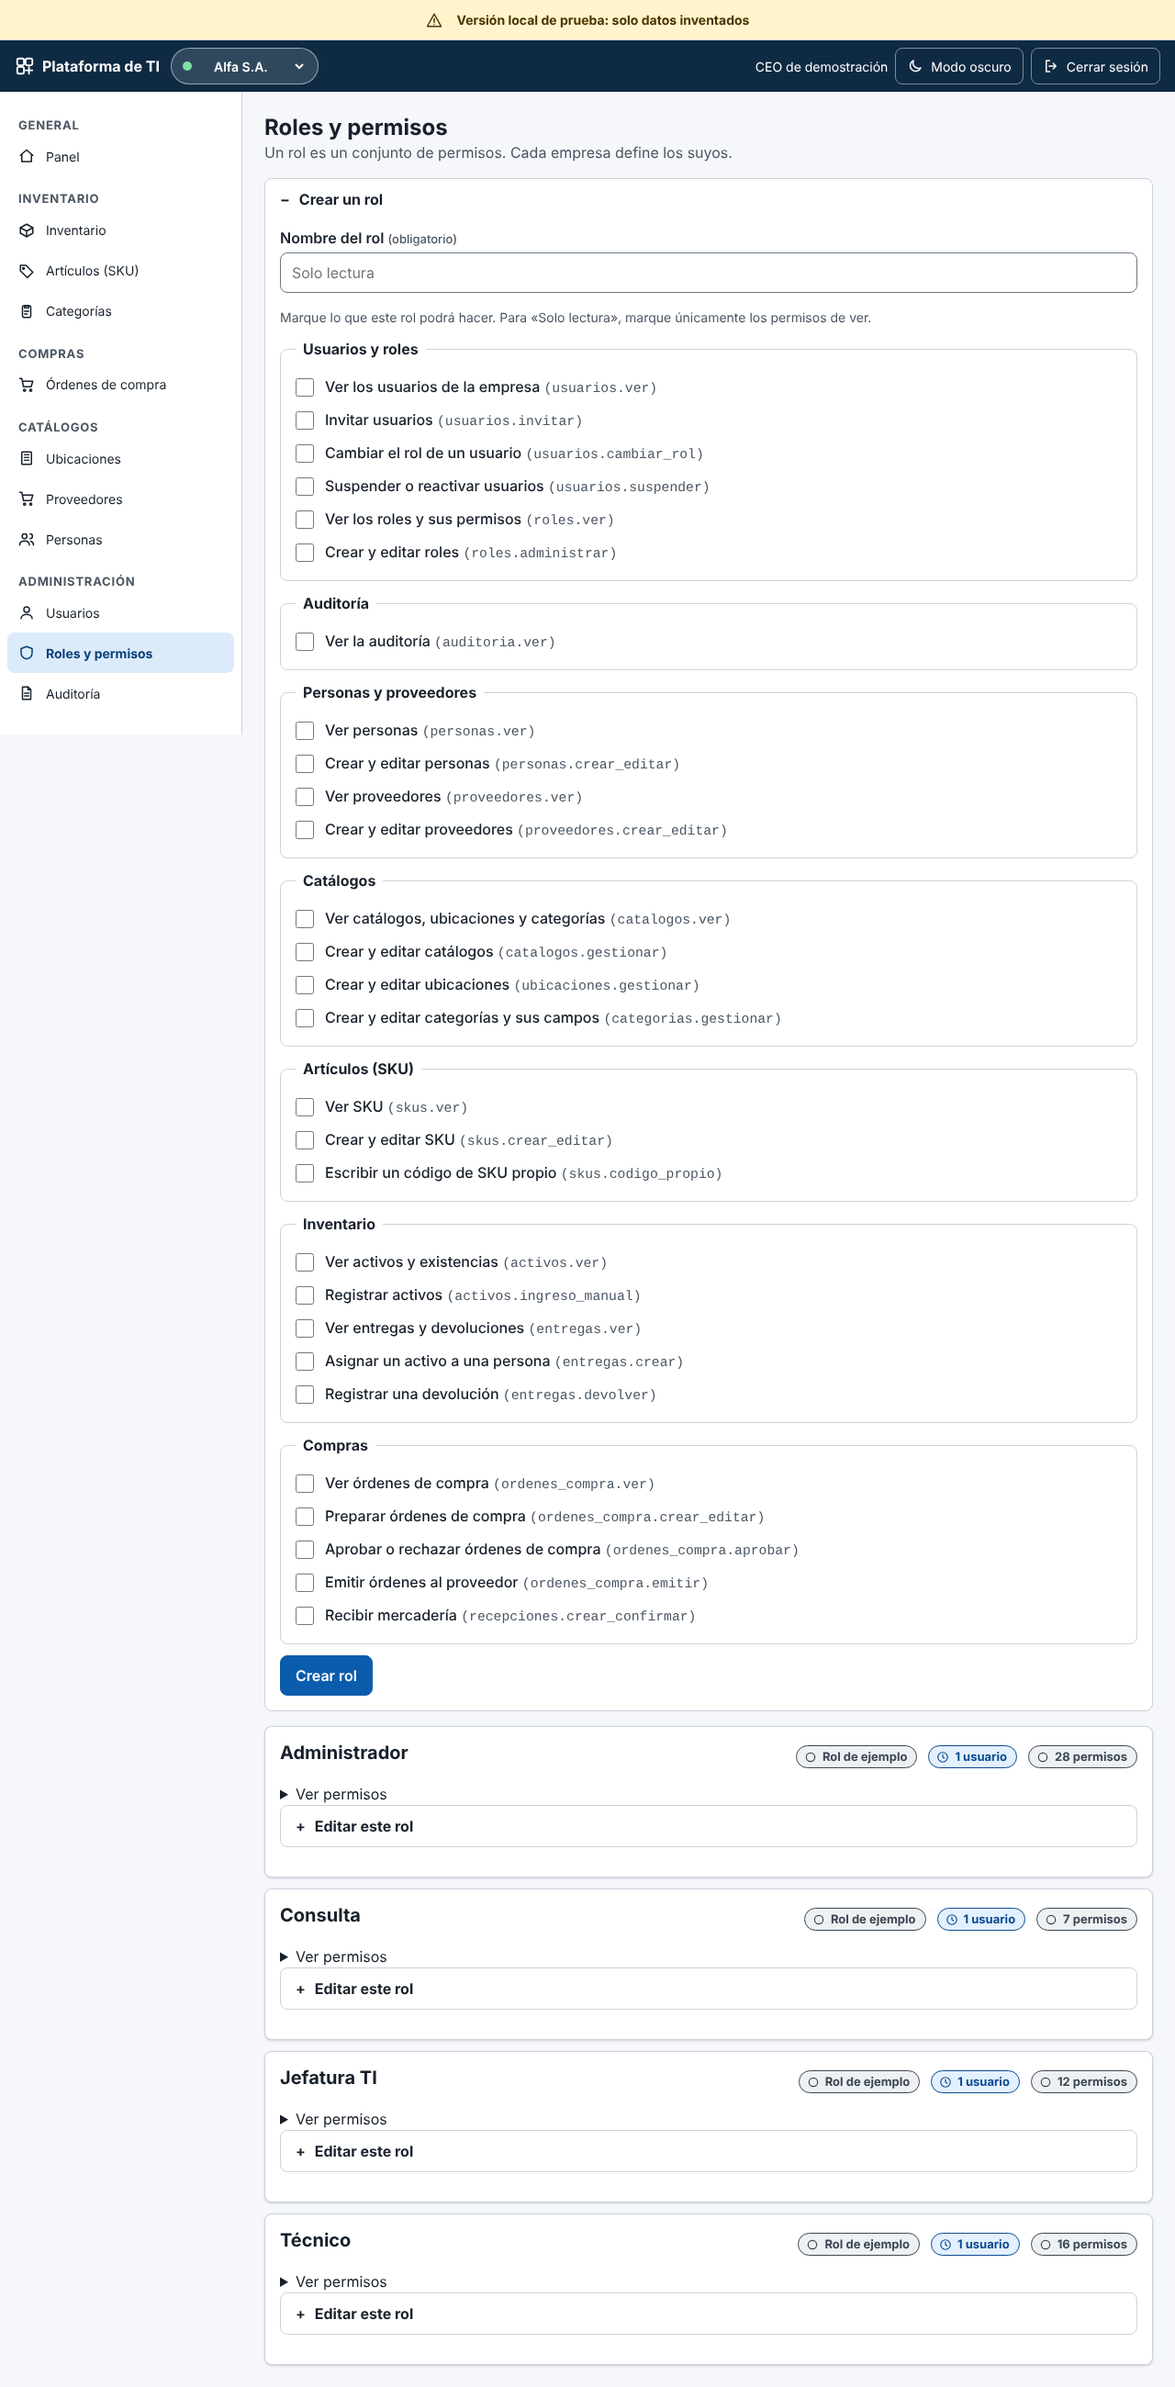
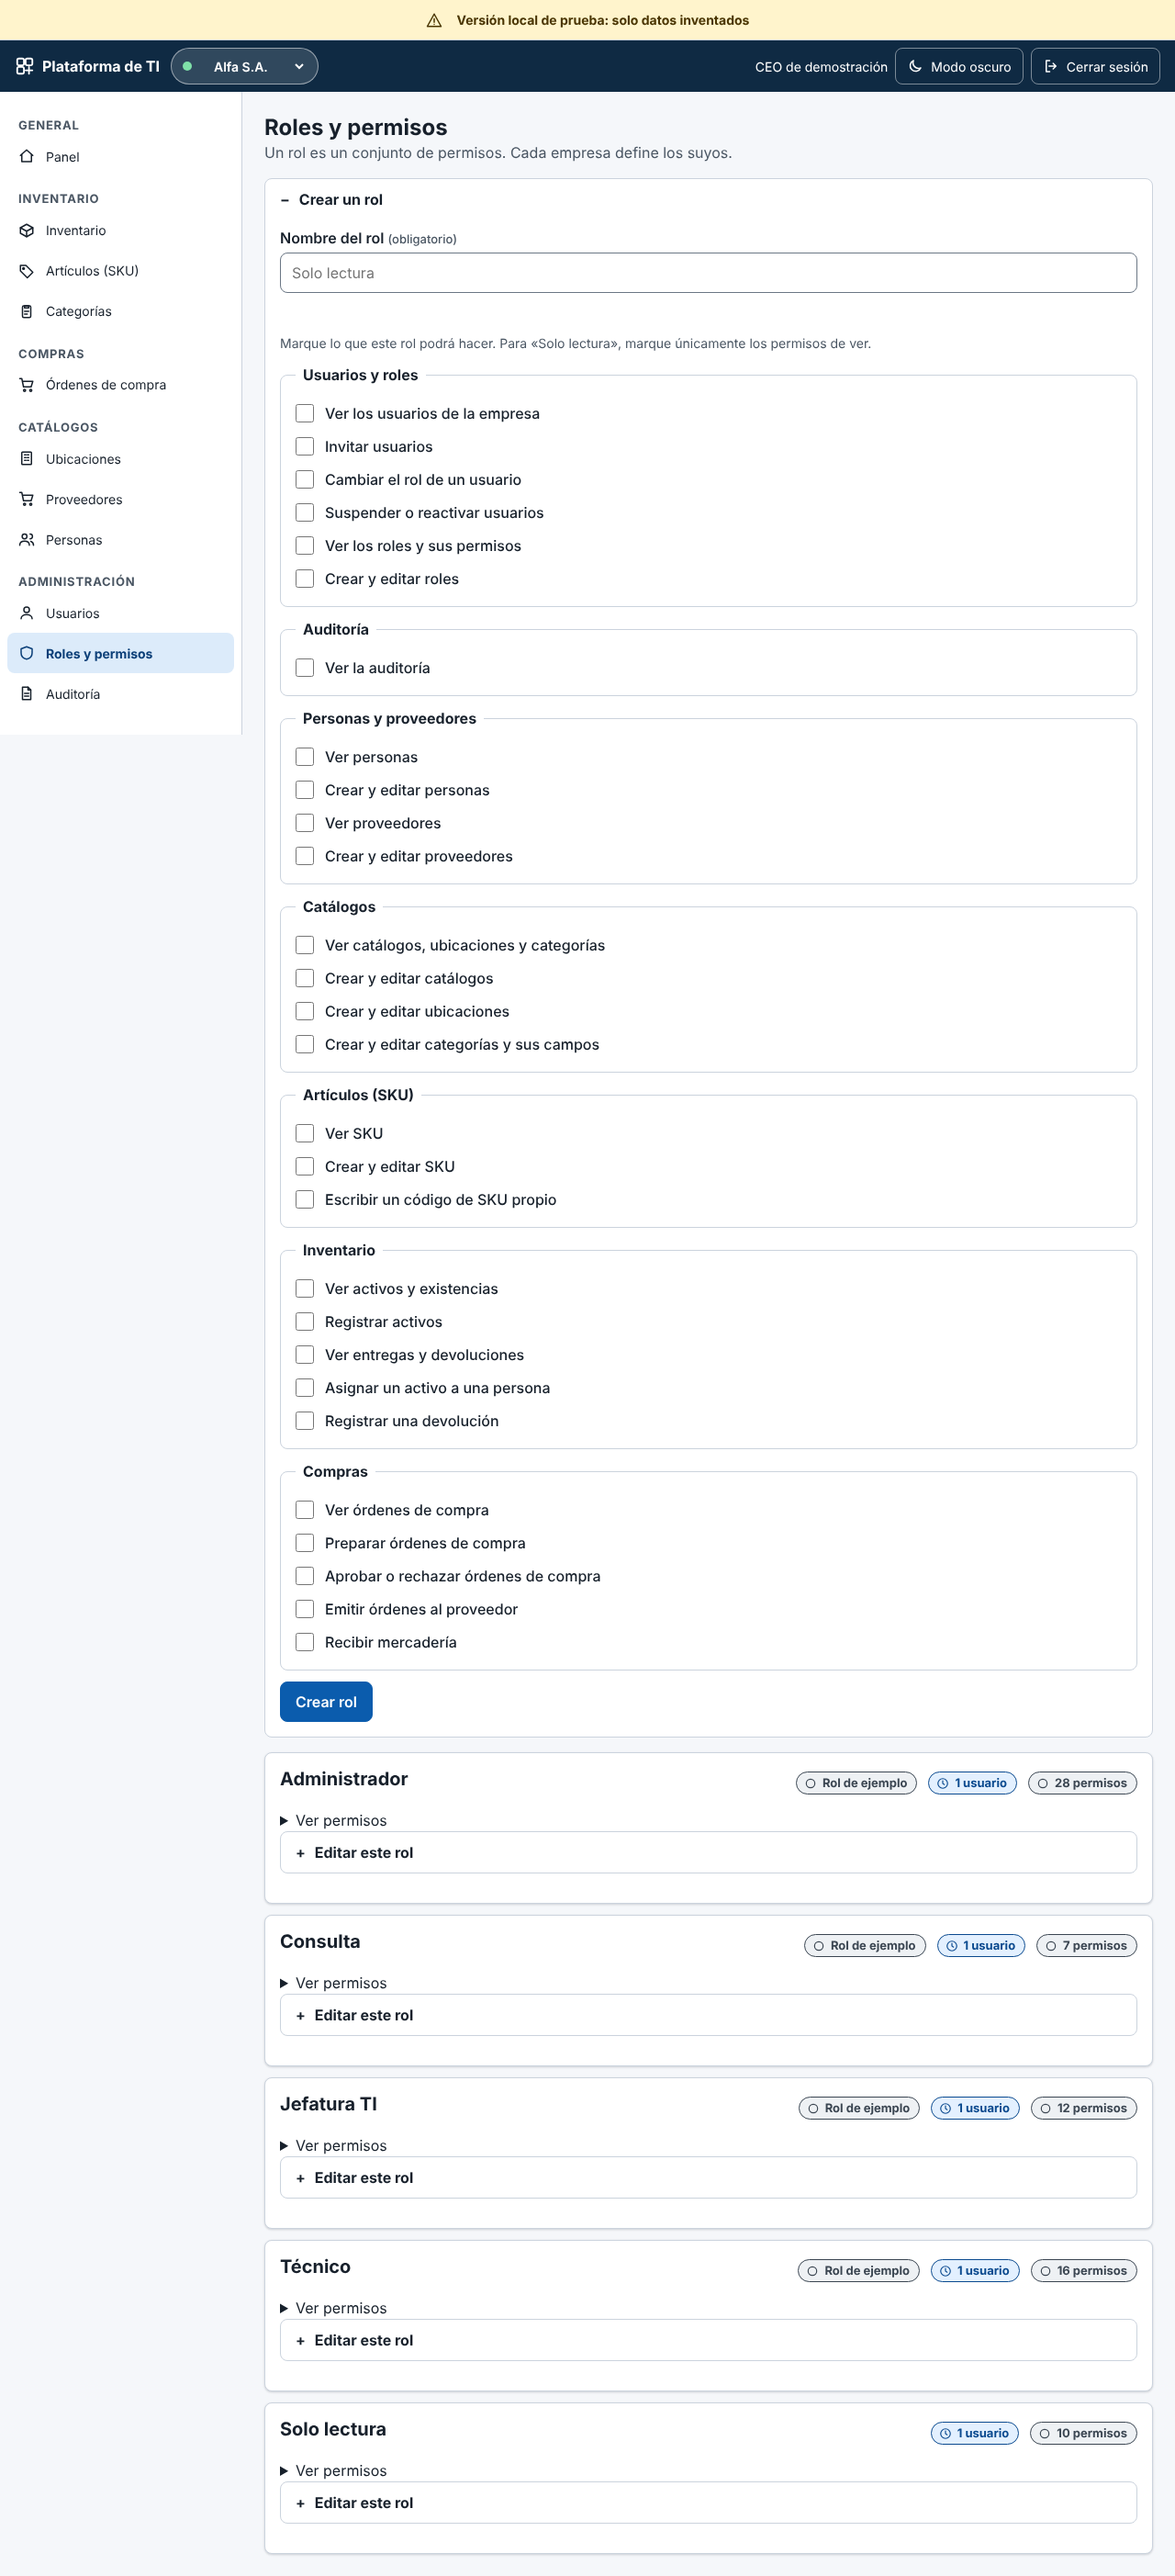
Versión local 0.1: avance de equipo (trabajo en curso)
Claude-Session: https://claude.ai/code/session_011DkFiBAtcrjrhCwLF1G6P5

Changed region(s): [[0.0, 0.0, 1.0, 0.9969], [0.6562, 0.6854, 0.9688, 0.9658], [0.625, 0.6231, 0.6562, 0.6542]]

diff --git a/src/nucleo/acceso/limite-intentos.ts b/src/nucleo/acceso/limite-intentos.ts
@@ -1,0 +1,84 @@
+// Límite de intentos al pedir enlaces de ingreso (H-SEG-L09, D-054): por correo y por origen.
+// En memoria del proceso: basta para la versión local (un solo proceso). Con varias copias de la aplicación
+// habría que moverlo a la base; queda anotado para la Etapa 1. Se cuenta TODO pedido con un correo de forma
+// válida, exista o no la cuenta, para que el límite tampoco delate qué correos existen.
+
+import { ErrorDeNegocio } from '../errores'
+import { huellaDe } from './tokens'
+
+export type ConfigLimite = { ventanaMs: number; maxPorCorreo: number; maxPorOrigen: number }
+
+const entero = (valor: string | undefined, porOmision: number): number => {
+  const n = Number(valor)
+  return Number.isInteger(n) && n > 0 ? n : porOmision
+}
+
+/** 5 pedidos por correo y 20 por origen cada 10 minutos. Ajustables con variables de entorno (p. ej. pruebas de recorrido). */
+export function configPorOmision(env: Readonly<Record<string, string | undefined>> = process.env): ConfigLimite {
+  return {
+    ventanaMs: entero(env.LIMITE_ENLACES_MINUTOS, 10) * 60_000,
+    maxPorCorreo: entero(env.LIMITE_ENLACES_POR_CORREO, 5),
+    maxPorOrigen: entero(env.LIMITE_ENLACES_POR_ORIGEN, 20),
+  }
+}
+
+const MAX_CLAVES = 5_000
+
+const porCorreo = new Map<string, number[]>()
+const porOrigen = new Map<string, number[]>()
+
+/** Solo para pruebas: vacía los contadores. */
+export function reiniciarLimitesDeEnlaces(): void {
+  porCorreo.clear()
+  porOrigen.clear()
+}
+
+function vigentes(mapa: Map<string, number[]>, clave: string, desde: number): number[] {
+  const marcas = (mapa.get(clave) ?? []).filter((t) => t > desde)
+  if (marcas.length === 0) mapa.delete(clave)
+  else mapa.set(clave, marcas)
+  return marcas
+}
+
+function acotar(mapa: Map<string, number[]>, desde: number): void {
+  if (mapa.size <= MAX_CLAVES) return
+  for (const clave of [...mapa.keys()]) vigentes(mapa, clave, desde)
+  // Si aun así hay demasiadas claves distintas (ataque con muchos correos), se olvidan las más antiguas.
+  for (const clave of mapa.keys()) {
+    if (mapa.size <= MAX_CLAVES) break
+    mapa.delete(clave)
+  }
+}
+
+const esperaEnMinutos = (ms: number): number => Math.max(1, Math.ceil(ms / 60_000))
+
+/**
+ * Registra un pedido de enlace y LANZA si el correo o el origen ya pidieron demasiados en la ventana.
+ * Un pedido rechazado no suma. `correoNormalizado` ya viene en minúsculas y sin espacios.
+ */
+export function registrarPedidoDeEnlace(
+  correoNormalizado: string,
+  origen: string,
+  ahora: number = Date.now(),
+  config: ConfigLimite = configPorOmision(),
+): void {
+  const desde = ahora - config.ventanaMs
+  const claveCorreo = huellaDe(correoNormalizado)
+  const claveOrigen = huellaDe(origen)
+  const delCorreo = vigentes(porCorreo, claveCorreo, desde)
+  const delOrigen = vigentes(porOrigen, claveOrigen, desde)
+
+  const excedido = delCorreo.length >= config.maxPorCorreo ? delCorreo : delOrigen.length >= config.maxPorOrigen ? delOrigen : null
+  if (excedido) {
+    const minutos = esperaEnMinutos((excedido[0] as number) + config.ventanaMs - ahora)
+    const mensaje =
+      `Se pidieron demasiados enlaces en pocos minutos. Espere ${minutos} ${minutos === 1 ? 'minuto' : 'minutos'} ` +
+      'e inténtelo de nuevo; mientras tanto puede usar el último enlace que recibió.'
+    throw new ErrorDeNegocio('VALIDACION', mensaje, { correo: mensaje })
+  }
+
+  porCorreo.set(claveCorreo, [...delCorreo, ahora])
+  porOrigen.set(claveOrigen, [...delOrigen, ahora])
+  acotar(porCorreo, desde)
+  acotar(porOrigen, desde)
+}

diff --git a/src/nucleo/acceso/servicios.ts b/src/nucleo/acceso/servicios.ts
@@ -6,6 +6,8 @@ import {
 } from './constantes'
 import { borrarCookie, COOKIE_NAVEGADOR, COOKIE_SESION, escribirCookie, leerCookie } from './cookies'
 import { crearEnlaceIngreso, enlaceSenuelo } from './emitir'
+import { registrarPedidoDeEnlace } from './limite-intentos'
+import { leerOrigen } from './origen'
 import { exigirSesion } from './sesion'
 import { generarToken, huellaDe, TOKEN_VALIDO } from './tokens'
 import type { EmpresaResumen, ResultadoCanjear, ResultadoSolicitarEnlace } from './tipos'
@@ -21,6 +23,9 @@ export async function solicitarEnlace(correo: string): Promise<ResultadoSolicita
   const limpio = (correo ?? '').trim().toLowerCase()
   if (!CORREO_VALIDO.test(limpio)) throw validacion('Escriba un correo válido.', { correo: 'Escriba un correo válido.' })
   if (!modoLocalActivo()) return {}
+
+  // H-SEG-L09: límite por correo y por origen; cuenta igual si el correo existe o no.
+  registrarPedidoDeEnlace(limpio, await leerOrigen())
 
   // El enlace queda atado al navegador que lo pidió (cookie `nav`, ADR-08).
   let navegador = await leerCookie(COOKIE_NAVEGADOR())
@@ -45,6 +50,9 @@ export async function canjearEnlace(token: string): Promise<ResultadoCanjear> {
   const navegador = await leerCookie(COOKIE_NAVEGADOR())
   const huellaNavegador = navegador && TOKEN_VALIDO.test(navegador) ? huellaDe(navegador) : null
   const tokenSesion = generarToken()
+  // Sesión que este navegador ya tenía (si tenía): al entrar con un enlace nuevo se cierra (H-SEG-L09).
+  const sesionAnterior = await leerCookie(COOKIE_SESION())
+  const huellaSesionAnterior = sesionAnterior && TOKEN_VALIDO.test(sesionAnterior) ? huellaDe(sesionAnterior) : null
 
   const empresas = await conGlobal(async (tx) => {
     // Una sola sentencia: comprueba que vale, que es del navegador correcto y lo gasta.
@@ -64,6 +72,9 @@ export async function canjearEnlace(token: string): Promise<ResultadoCanjear> {
     const usuarioId = gastado[0]?.usuario_id
     if (!usuarioId) throw enlaceInvalido()
 
+    if (huellaSesionAnterior) {
+      await tx.consultar(`UPDATE sesion SET revocada_en = now() WHERE huella = $1 AND revocada_en IS NULL`, [huellaSesionAnterior])
+    }
     await tx.consultar(
       `INSERT INTO sesion (usuario_id, huella, expira_en, ultima_actividad_en)
        VALUES ($1, $2, now() + make_interval(hours => $3), now())`,

diff --git a/src/nucleo/acceso/origen.ts b/src/nucleo/acceso/origen.ts
@@ -1,0 +1,24 @@
+// De dónde viene la petición, para el límite de intentos. Solo se confía en las cabeceras de un proxy
+// propio (X-Forwarded-For / X-Real-IP); en la versión local no hay proxy y todo cae en el origen «local».
+// Fuera de una petición de Next (pruebas) también cae en «local».
+
+export type LectorDeOrigen = () => Promise<string | undefined> | string | undefined
+
+let lector: LectorDeOrigen | null = null
+
+/** Solo para pruebas. Pasar `null` vuelve a leer las cabeceras de Next. */
+export function usarLectorDeOrigen(nuevo: LectorDeOrigen | null): void {
+  lector = nuevo
+}
+
+export async function leerOrigen(): Promise<string> {
+  if (lector) return ((await lector()) ?? '').trim() || 'local'
+  try {
+    const { headers } = await import('next/headers')
+    const h = await headers()
+    const reenviado = h.get('x-forwarded-for')?.split(',')[0]?.trim()
+    return reenviado || h.get('x-real-ip')?.trim() || 'local'
+  } catch {
+    return 'local'
+  }
+}
